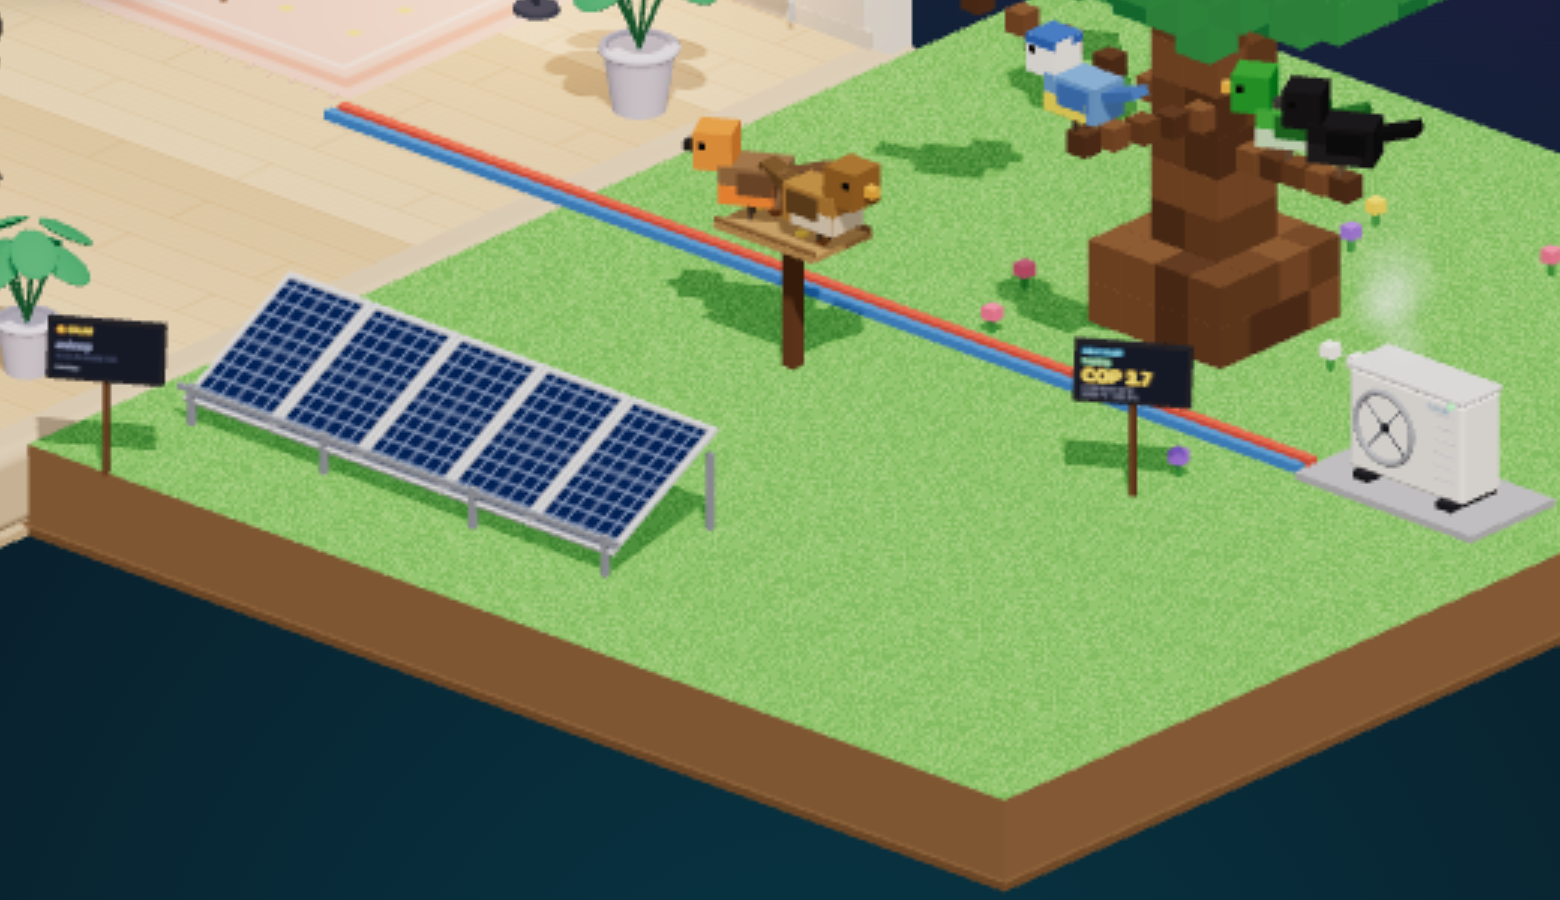
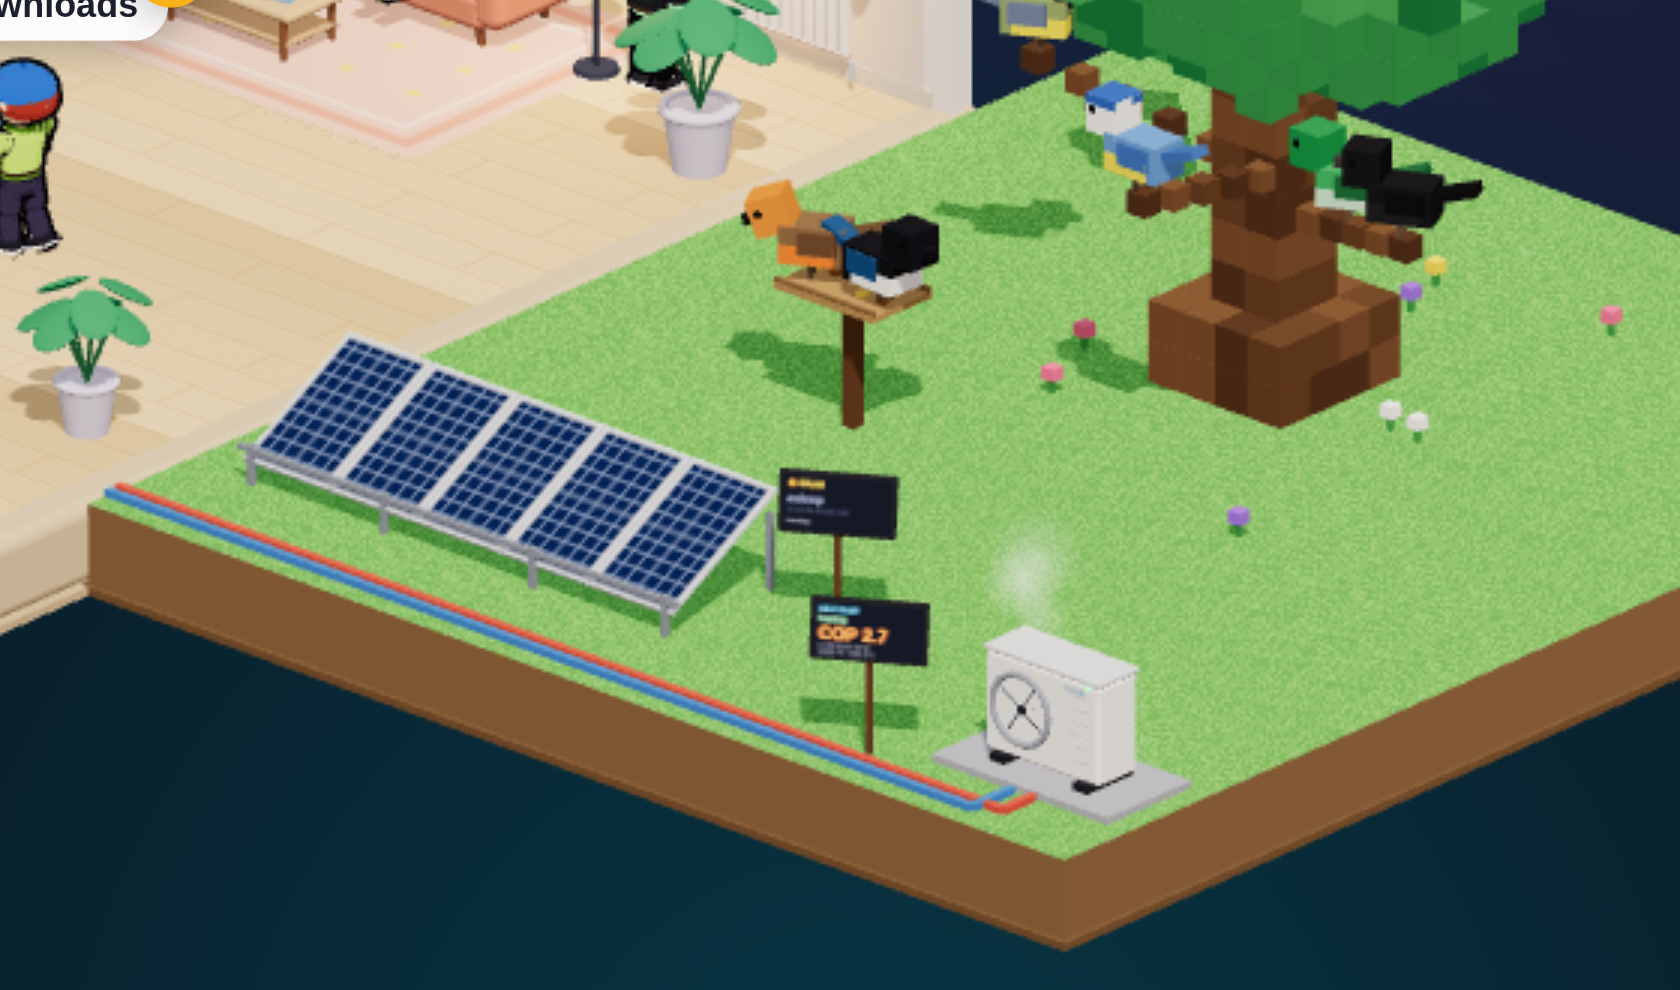
Heat pump moves to the front corner, in line with the solar panels
The pipes run along the front edge of the garden and stop where it meets the office.
The two signs stand clear of the panels and of each other.

diff --git a/office_props/garden.js b/office_props/garden.js
@@ -1,4 +1,4 @@
-// The rest of the garden: a slanted solar array in front of the tree and a heat pump to its right. Data from sources/homeassistant.py.
+// The rest of the garden: a slanted solar array in front of the tree and a heat pump in the front corner, in line with the panels. Data from sources/homeassistant.py.
 //  - the panels glow with the solar power now (they sleep when the inverter does), the sign by the array has the numbers
 //  - the heat pump's fan turns while the compressor runs, its light shows what it is doing, puffs rise when it works in the cold,
 //    and its sign shows the COP (heat out per electricity in). Hover either for the details, double-click opens Home Assistant.
@@ -62,7 +62,7 @@ export default function (kit) {
     if (d.lifetime_kwh) bits.push(`total ${Math.round(d.lifetime_kwh / 1000 * 10) / 10} MWh`);
     g.fillText(bits.join(' · ') || 'SolarEdge', 22, 224);
   });
-  const solarSign = sign(13.35, 2.6, 0.55, 1.0, 0.5, solarTex);
+  const solarSign = sign(19.2, 0.1, 0.55, 1.0, 0.5, solarTex);
   const solarTip = () => {
     const s = ha && ha.solar;
     if (!s) return 'Solar panels';
@@ -72,8 +72,8 @@ export default function (kit) {
   panels.forEach((p) => wrapTip(p.face, solarTip));
   wrapTip(solarSign.m, solarTip);
 
-  // ---------- the heat pump, to the right of the tree ----------
-  const HX = 22.4, HZ = -5.0;
+  // ---------- the heat pump, in the front-right corner of the garden, in line with the panels ----------
+  const HX = 22.9, HZ = 1.2;
   const hp = kit.group(HX, 0, HZ);
   hp.scale.setScalar(1.25);
   kit.box(1.7, 0.06, 0.9, '#a9adb7', 0, 0.03, 0, hp);  // concrete pad
@@ -90,9 +90,12 @@ export default function (kit) {
   kit.plane(0.4, 0.1, new THREE.MeshStandardMaterial({ map: brand }), 0.32, 0.82, 0.213, 0, 0, hp);
   const led = kit.ball(0.03, kit.mat('#4ade80', { emissive: '#4ade80', emissiveIntensity: 1 }), 0.45, 0.88, 0.215, hp);
   led.castShadow = false;
-  // two lagged pipes running under the grass to the house
-  kit.box(9.4, 0.07, 0.08, '#d85a4a', -5.6, 0.04, 0.2, hp);
-  kit.box(9.4, 0.07, 0.08, '#4a8ad8', -5.6, 0.04, 0.34, hp);
+  // two lagged pipes: out of the front of the unit, then along the front edge of the garden to where it meets the office, where they stop
+  const EDGE_X = 12.4, PZ = [2.2, 2.34];
+  [['#d85a4a', PZ[0], HX + 0.2], ['#4a8ad8', PZ[1], HX - 0.05]].forEach(([c, z, x]) => {
+    kit.box(x - EDGE_X, 0.07, 0.08, c, (x + EDGE_X) / 2, 0.04, z);  // along the edge
+    kit.box(0.08, 0.07, z - (HZ + 0.6), c, x, 0.04, (z + HZ + 0.6) / 2);  // from the unit to the edge
+  });
 
   const puffTex = kit.canvasTexture(64, 64, (g) => { const gr = g.createRadialGradient(32, 32, 2, 32, 32, 30); gr.addColorStop(0, 'rgba(255,255,255,0.85)'); gr.addColorStop(1, 'rgba(255,255,255,0)'); g.fillStyle = gr; g.fillRect(0, 0, 64, 64); });
   const puffs = [0, 1, 2, 3].map((i) => {
@@ -114,7 +117,7 @@ export default function (kit) {
     g.fillText(d.running ? `${d.heat_kw !== null ? num(d.heat_kw, 1) + ' kW heat' : ''}${d.electric_w ? ' for ' + Math.round(d.electric_w) + ' W' : ''}` : `${d.running ? '' : 'today '}${num(d.cop_today)} on average`, 22, 214);
     g.fillText(`outside ${num(d.outdoor, 0)}°C · water ${num(d.leaving_water, 0)}°C`, 22, 244);
   });
-  const hpSign = sign(20.5, -3.2, 0.55, 1.0, 0.5, hpTex);
+  const hpSign = sign(21.3, 2.0, 0.55, 1.0, 0.5, hpTex);
   const hpTip = () => {
     const d = ha && ha.heatpump;
     if (!d) return 'Heat pump';

diff --git a/README.md b/README.md
@@ -110,10 +110,10 @@ Next to the tree, on the same grass patch, two more things report what your hous
 - **Solar panels**: a slanted ground-mounted array in front of the tree. The panels glow with the solar power at this moment (they go dark and the
   sign says "asleep" when the inverter sleeps), and the little sign shows the power with a bar, and today's and the all-time production when your
   inverter reports them. Made with a SolarEdge in mind, but any Home Assistant power sensor works.
-- **Heat pump**: an outdoor unit to the right of the tree. Its fan turns while the compressor runs (faster when it works harder), its light shows
+- **Heat pump**: an outdoor unit in the front corner of the garden, in line with the panels. Its fan turns while the compressor runs (faster when it works harder), its light shows
   what it is doing (green heating, blue idle, orange defrosting, red error), and steam rises when it works in the cold. The sign shows the **COP**
   (heat delivered per unit of electricity, from your own sensors), the heat and electric power, and the temperatures; hover for today's totals. Two
-  lagged pipes run under the grass to the house. It says "making hot water" while the pump heats the tank instead of the house.
+  lagged pipes run along the front edge of the garden to the office. It says "making hot water" while the pump heats the tank instead of the house.
 
 Both come from Home Assistant sensors you name in `config.json` (see `config.example.json`); every one is optional.
 
